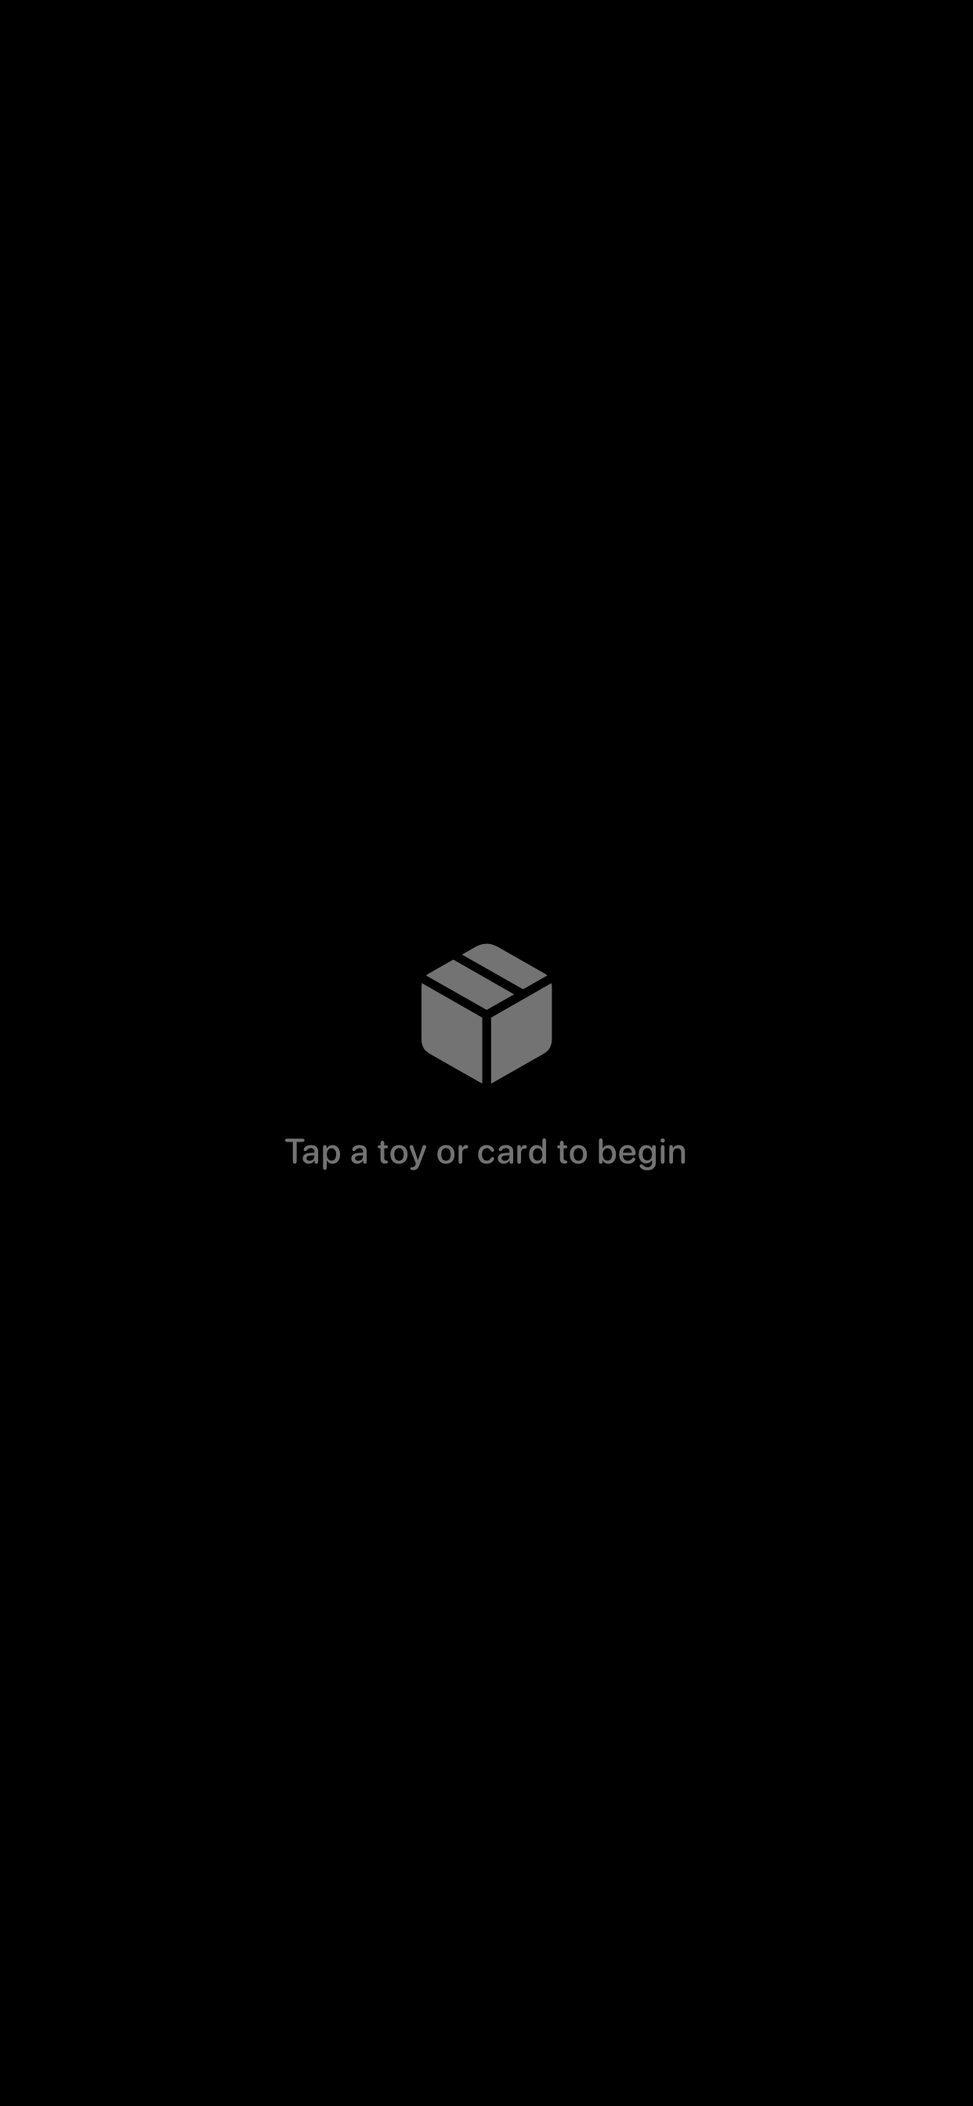
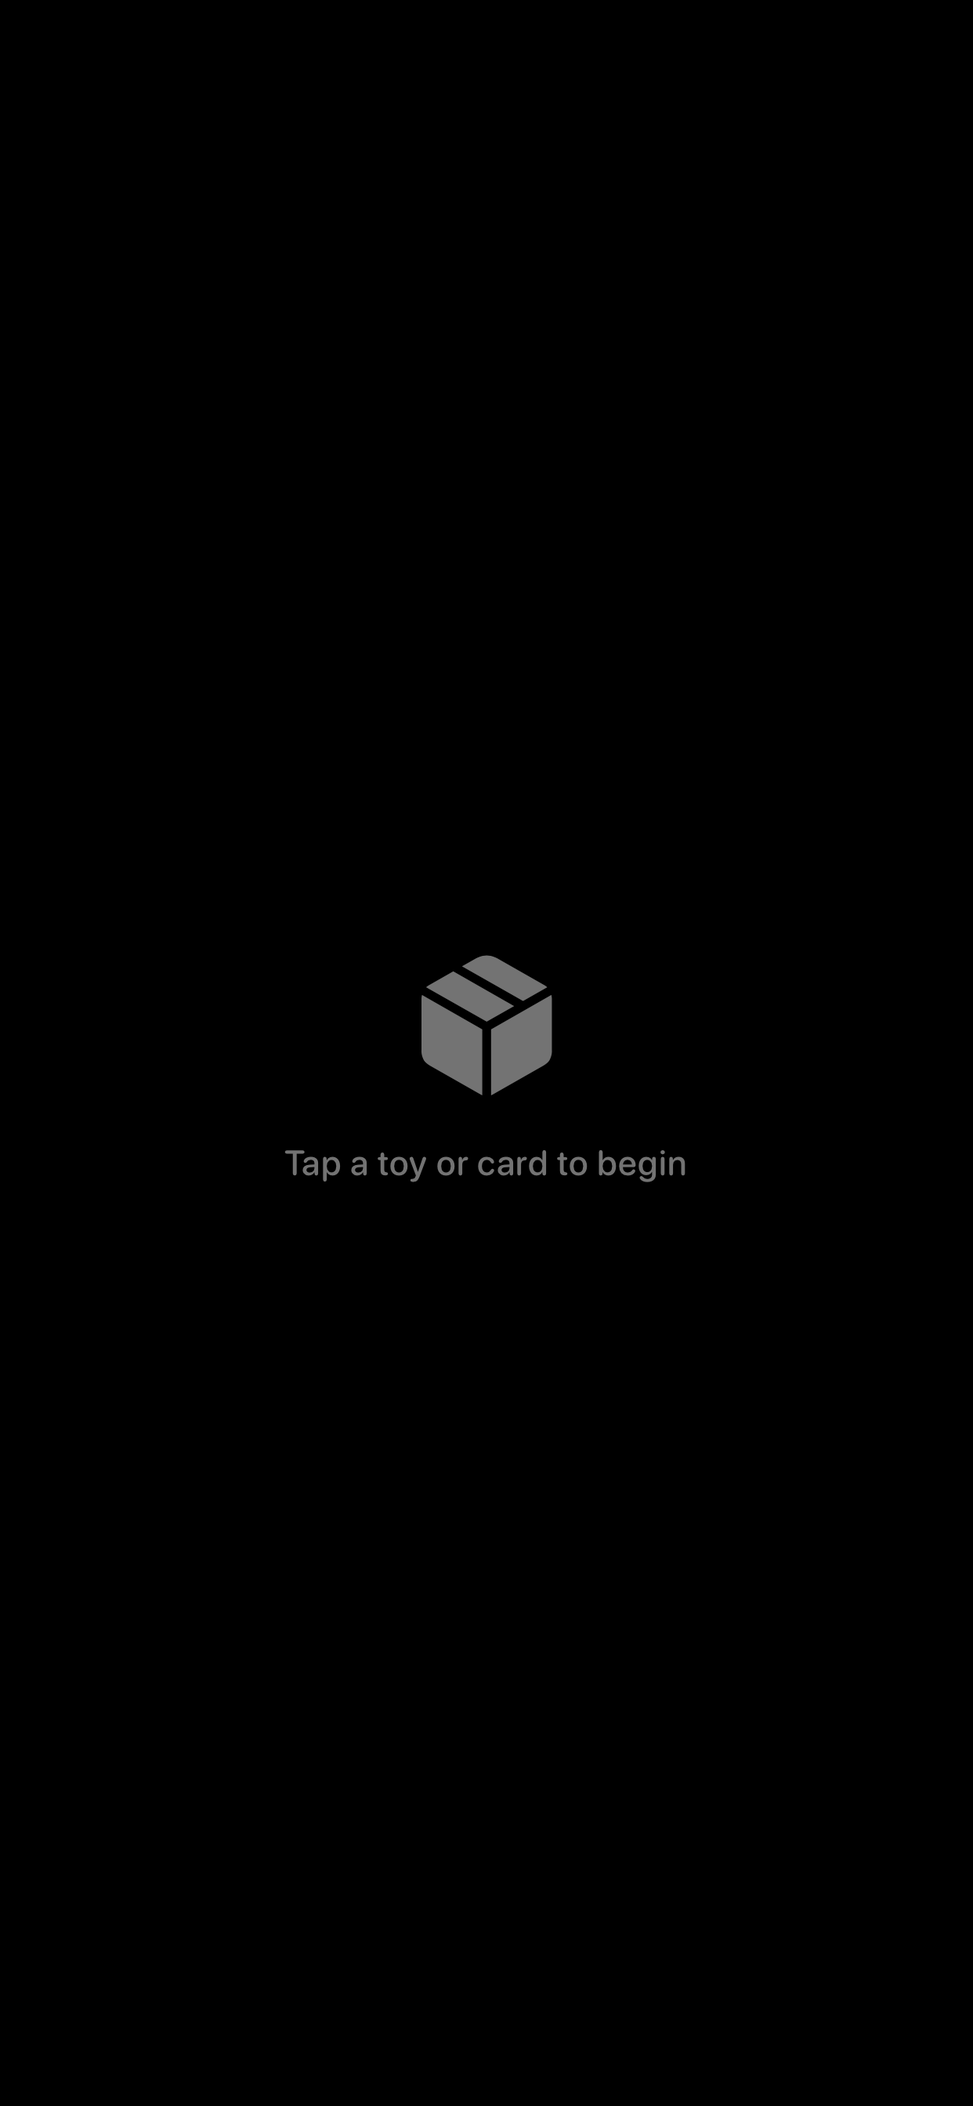
Fix content rendering under the Dynamic Island; add baked-in device frames
Real bug found while reviewing screenshots: ChildLockedShellView applied
.ignoresSafeArea() to its entire outer ZStack, which let StoryPlayerView's
title text render directly under the Dynamic Island/notch on real
devices (visibly confirmed: "The Magic Monkey" appeared as "Th[island]key").
Fixed by moving .ignoresSafeArea() down to each child view's own
.background() only, so the black/white fill still bleeds edge-to-edge
while actual content (text, icons) stays within the safe area. Applies to
IdleTapPromptView, StoryPlayerView, VocabCardView, MusicPlayerView, and
PlaybackErrorView. Recaptured all screenshots to confirm the fix.

Added Scripts/frame_screenshots.py (Pillow-based) to bake a device bezel
+ rounded screen corners + drop shadow directly into a copy of each
screenshot -- a phone frame for the iPhone captures, and a distinct
squircle-shaped frame with Digital Crown/side-button nubs for the Apple
Watch one. This has to happen at the image level rather than via CSS:
GitHub strips <style> blocks and inline styling from README.md, so a
CSS-only frame (which is what docs/index.html used before, and still
uses everywhere else) would simply disappear there. Raw screenshots stay
untouched under docs/screenshots/<device>/ for potential real App Store
Connect reuse; framed copies go to docs/screenshots/framed/<device>/.
Landing page and README now reference the framed versions; the
now-redundant CSS bezel/shadow styling was removed from style.css to
[…]

Changed region(s): [[0.306, 0.4375, 0.7037, 0.5625]]

diff --git a/docs/index.html b/docs/index.html
@@ -48,13 +48,13 @@
     <div class="hero-phones">
       <div>
         <div class="phone-frame">
-          <img src="screenshots/iphone-17-pro-max/idle.png" alt="TapStory's locked screen: a plain black screen with a small grey box icon and the words 'Tap a toy or card to begin'. This is also exactly what's on screen while a story is playing, by default.">
+          <img src="screenshots/framed/iphone-17-pro-max/idle.png" alt="TapStory's locked screen: a plain black screen with a small grey box icon and the words 'Tap a toy or card to begin'. This is also exactly what's on screen while a story is playing, by default.">
         </div>
         <p class="fine-print" style="text-align:center;margin-top:10px;">This is the screen. Also while a story is playing.</p>
       </div>
       <div style="margin-top:34px;">
         <div class="phone-frame">
-          <img src="screenshots/iphone-17-pro-max/story-magic-monkey.png" alt="TapStory playing 'The Magic Monkey' story with Screen Display turned on, showing a tree illustration and on-screen narration text.">
+          <img src="screenshots/framed/iphone-17-pro-max/story-magic-monkey.png" alt="TapStory playing 'The Magic Monkey' story with Screen Display turned on, showing a tree illustration and on-screen narration text.">
         </div>
         <p class="fine-print" style="text-align:center;margin-top:10px;">Optional: turn on Screen Display to see it too.</p>
       </div>
@@ -101,19 +101,19 @@
     </div>
     <div class="gallery">
       <figure>
-        <div class="shot"><img src="screenshots/iphone-17-pro-max/idle.png" alt="Idle locked screen, waiting for a tap -- also what's on screen while content plays, by default"></div>
+        <div class="shot"><img src="screenshots/framed/iphone-17-pro-max/idle.png" alt="Idle locked screen, waiting for a tap -- also what's on screen while content plays, by default"></div>
         <figcaption><strong>Default:</strong> no motion, nothing else to tap -- even mid-story</figcaption>
       </figure>
       <figure>
-        <div class="shot"><img src="screenshots/iphone-17-pro-max/story-magic-monkey.png" alt="A story page playing with narration and an illustration, Screen Display on"></div>
+        <div class="shot"><img src="screenshots/framed/iphone-17-pro-max/story-magic-monkey.png" alt="A story page playing with narration and an illustration, Screen Display on"></div>
         <figcaption><strong>Optional:</strong> a story shown page by page</figcaption>
       </figure>
       <figure>
-        <div class="shot"><img src="screenshots/iphone-17-pro-max/vocab-letter-m.png" alt="A vocabulary card showing the letter M and the word Monkey, Screen Display on"></div>
+        <div class="shot"><img src="screenshots/framed/iphone-17-pro-max/vocab-letter-m.png" alt="A vocabulary card showing the letter M and the word Monkey, Screen Display on"></div>
         <figcaption><strong>Optional:</strong> letter &amp; vocabulary cards</figcaption>
       </figure>
       <figure>
-        <div class="shot"><img src="screenshots/iphone-17-pro-max/music-lullaby.png" alt="A lullaby playing with a moon icon, Screen Display on"></div>
+        <div class="shot"><img src="screenshots/framed/iphone-17-pro-max/music-lullaby.png" alt="A lullaby playing with a moon icon, Screen Display on"></div>
         <figcaption><strong>Optional:</strong> songs and lullabies on screen</figcaption>
       </figure>
     </div>
@@ -128,8 +128,8 @@
     </div>
     <div class="hero-phones" style="justify-content:flex-start;">
       <div style="max-width:220px;">
-        <div class="phone-frame" style="border-radius:24px;">
-          <img src="screenshots/apple-watch/overview.png" alt="TapStory's Apple Watch app, showing Now Playing, a Screen Display toggle, and a list of saved tags to play remotely.">
+        <div class="phone-frame">
+          <img src="screenshots/framed/apple-watch/overview.png" alt="TapStory's Apple Watch app, showing Now Playing, a Screen Display toggle, and a list of saved tags to play remotely.">
         </div>
       </div>
       <div style="flex:1;min-width:220px;">

diff --git a/docs/assets/style.css b/docs/assets/style.css
@@ -207,11 +207,10 @@ h1 {
 }
 
 .phone-frame {
-  border-radius: 34px;
-  border: 8px solid var(--surface);
-  box-shadow: var(--shadow), 0 0 0 1px var(--border);
-  overflow: hidden;
-  background: #000;
+  /* The device bezel + shadow are baked directly into these images (see
+     Scripts/frame_screenshots.py) rather than drawn with CSS, so the same
+     framed screenshots also render correctly in README.md on GitHub,
+     which strips <style> blocks and most inline styling from Markdown. */
   width: 100%;
   max-width: 220px;
 }
@@ -322,10 +321,7 @@ section {
 }
 
 .gallery .shot {
-  border-radius: 20px;
-  overflow: hidden;
-  border: 1px solid var(--border);
-  box-shadow: var(--shadow);
+  /* Framed images already carry their own bezel + shadow -- see .phone-frame. */
 }
 
 .gallery figcaption {

diff --git a/App/TapStory/UI/Child/ChildLockedShellView.swift b/App/TapStory/UI/Child/ChildLockedShellView.swift
@@ -63,7 +63,12 @@ struct ChildLockedShellView: View {
                 }
             }
         }
-        .ignoresSafeArea()
+        // Deliberately NOT .ignoresSafeArea() here: each child view bleeds
+        // its own background to the edges individually (see e.g.
+        // StoryPlayerView), but keeps its actual content -- text, icons --
+        // within the safe area. A blanket ignoresSafeArea() at this level
+        // previously let top-anchored content (a story's title) render
+        // straight under the Dynamic Island/notch on real devices.
         .statusBarHidden(true)
         .onAppear {
             coordinator.startListening()

diff --git a/App/TapStory/Actors/Story/StoryPlayerView.swift b/App/TapStory/Actors/Story/StoryPlayerView.swift
@@ -45,7 +45,7 @@ struct StoryPlayerView: View {
                         .padding(.bottom, 32)
                 }
                 .frame(maxWidth: .infinity, maxHeight: .infinity)
-                .background(Color(.systemBackground))
+                .background(Color(.systemBackground).ignoresSafeArea())
                 .animation(.easeInOut(duration: 0.4), value: pageIndex)
             }
         }

diff --git a/App/TapStory/UI/Child/PlaybackErrorView.swift b/App/TapStory/UI/Child/PlaybackErrorView.swift
@@ -19,7 +19,7 @@ struct PlaybackErrorView: View {
                 .foregroundStyle(.secondary)
         }
         .frame(maxWidth: .infinity, maxHeight: .infinity)
-        .background(Color(.systemBackground))
+        .background(Color(.systemBackground).ignoresSafeArea())
         .onAppear {
             DispatchQueue.main.asyncAfter(deadline: .now() + 2.5) {
                 onFinished()

diff --git a/App/TapStory/Actors/Music/MusicPlayerView.swift b/App/TapStory/Actors/Music/MusicPlayerView.swift
@@ -28,7 +28,7 @@ struct MusicPlayerView: View {
                     Spacer()
                 }
                 .frame(maxWidth: .infinity, maxHeight: .infinity)
-                .background(Color(.systemBackground))
+                .background(Color(.systemBackground).ignoresSafeArea())
                 .onAppear { pulse = true }
             }
         }

diff --git a/App/TapStory/Actors/Vocab/VocabCardView.swift b/App/TapStory/Actors/Vocab/VocabCardView.swift
@@ -37,7 +37,7 @@ struct VocabCardView: View {
                     Spacer()
                 }
                 .frame(maxWidth: .infinity, maxHeight: .infinity)
-                .background(Color(.systemBackground))
+                .background(Color(.systemBackground).ignoresSafeArea())
             }
         }
         .onAppear { playOnce() }

diff --git a/App/TapStory/UI/Child/IdleTapPromptView.swift b/App/TapStory/UI/Child/IdleTapPromptView.swift
@@ -23,6 +23,6 @@ struct IdleTapPromptView: View {
             Spacer()
         }
         .frame(maxWidth: .infinity, maxHeight: .infinity)
-        .background(Color.black)
+        .background(Color.black.ignoresSafeArea())
     }
 }

diff --git a/Scripts/frame_screenshots.py b/Scripts/frame_screenshots.py
@@ -1,0 +1,146 @@
+#!/usr/bin/env python3
+"""
+Bakes a device frame (bezel, rounded screen corners, drop shadow) directly
+into a copy of each screenshot, for display on the landing page and in
+README.md. This has to happen at the image level rather than via CSS: raw
+Markdown/HTML rendered by GitHub strips <style> blocks and most inline
+styling, so a CSS-only frame (fine for docs/index.html on its own) can't
+survive on GitHub's README rendering.
+
+Raw screenshots from capture_screenshots.sh are left completely
+untouched under docs/screenshots/<device>/ -- those stay pixel-accurate
+to real device dimensions, which matters if they're ever reused for an
+actual App Store Connect screenshot upload. Framed copies are written to
+docs/screenshots/framed/<device>/ instead.
+
+Usage: ./Scripts/frame_screenshots.py
+"""
+from pathlib import Path
+from PIL import Image, ImageDraw, ImageFilter
+
+ROOT = Path(__file__).resolve().parent.parent
+SRC_ROOT = ROOT / "docs" / "screenshots"
+DST_ROOT = ROOT / "docs" / "screenshots" / "framed"
+
+BEZEL_COLOR = (18, 18, 20, 255)
+
+PHONE_DEVICES = ["iphone-17-pro-max", "iphone-11-pro-max"]
+PHONE_SCENES = ["idle", "story-magic-monkey", "vocab-letter-m", "music-lullaby", "dashboard"]
+
+
+def rounded_mask(size, radius):
+    mask = Image.new("L", size, 0)
+    ImageDraw.Draw(mask).rounded_rectangle([(0, 0), (size[0] - 1, size[1] - 1)], radius=radius, fill=255)
+    return mask
+
+
+def drop_shadow(canvas_size, rect, radius, blur, opacity=115, y_offset_ratio=0.012):
+    shadow = Image.new("RGBA", canvas_size, (0, 0, 0, 0))
+    (x0, y0), (x1, y1) = rect
+    offset = int((y1 - y0) * y_offset_ratio)
+    ImageDraw.Draw(shadow).rounded_rectangle(
+        [(x0, y0 + offset), (x1, y1 + offset)], radius=radius, fill=(0, 0, 0, opacity)
+    )
+    return shadow.filter(ImageFilter.GaussianBlur(blur))
+
+
+def frame_phone(src_path: Path, dst_path: Path):
+    shot = Image.open(src_path).convert("RGBA")
+    w, h = shot.size
+
+    bezel = round(w * 0.022)
+    corner = round(w * 0.125)  # matches a modern iPhone's screen corner radius closely enough
+    pad = round(w * 0.05)
+
+    screen = Image.new("RGBA", (w, h), (0, 0, 0, 0))
+    screen.paste(shot, (0, 0), rounded_mask((w, h), corner))
+
+    body_w, body_h = w + bezel * 2, h + bezel * 2
+    canvas_w, canvas_h = body_w + pad * 2, body_h + pad * 2
+    canvas = Image.new("RGBA", (canvas_w, canvas_h), (0, 0, 0, 0))
+
+    body_rect = ((pad, pad), (pad + body_w, pad + body_h))
+    canvas = Image.alpha_composite(canvas, drop_shadow((canvas_w, canvas_h), body_rect, corner + bezel, round(w * 0.028)))
+
+    body = Image.new("RGBA", (canvas_w, canvas_h), (0, 0, 0, 0))
+    ImageDraw.Draw(body).rounded_rectangle(
+        [body_rect[0], body_rect[1]], radius=corner + bezel, fill=BEZEL_COLOR
+    )
+    canvas = Image.alpha_composite(canvas, body)
+    canvas.paste(screen, (pad + bezel, pad + bezel), screen)
+
+    dst_path.parent.mkdir(parents=True, exist_ok=True)
+    canvas.save(dst_path)
+
+
+def frame_watch(src_path: Path, dst_path: Path):
+    shot = Image.open(src_path).convert("RGBA")
+    w, h = shot.size
+
+    bezel = round(w * 0.075)
+    corner = round(min(w, h) * 0.34)  # Watch cases read as a rounded squircle, not a plain rounded rect
+    pad = round(w * 0.11)
+
+    screen = Image.new("RGBA", (w, h), (0, 0, 0, 0))
+    screen.paste(shot, (0, 0), rounded_mask((w, h), round(corner * 0.72)))
+
+    body_w, body_h = w + bezel * 2, h + bezel * 2
+    canvas_w, canvas_h = body_w + pad * 2, body_h + pad * 2
+    canvas = Image.new("RGBA", (canvas_w, canvas_h), (0, 0, 0, 0))
+
+    body_rect = ((pad, pad), (pad + body_w, pad + body_h))
+    canvas = Image.alpha_composite(canvas, drop_shadow((canvas_w, canvas_h), body_rect, corner + bezel, round(w * 0.05), opacity=130))
+
+    body = Image.new("RGBA", (canvas_w, canvas_h), (0, 0, 0, 0))
+    draw = ImageDraw.Draw(body)
+    draw.rounded_rectangle([body_rect[0], body_rect[1]], radius=corner + bezel, fill=BEZEL_COLOR)
+
+    # Digital Crown + side button nubs on the right edge -- what actually
+    # reads as "Apple Watch" rather than just another rounded rectangle.
+    right_x = pad + body_w
+    nub_w = round(bezel * 1.3)
+    crown_h = round(body_h * 0.15)
+    crown_y = pad + round(body_h * 0.28)
+    draw.rounded_rectangle(
+        [(right_x - bezel * 0.4, crown_y), (right_x + nub_w, crown_y + crown_h)],
+        radius=nub_w // 2, fill=BEZEL_COLOR
+    )
+    button_h = round(body_h * 0.10)
+    button_y = pad + round(body_h * 0.52)
+    button_w = round(nub_w * 0.75)
+    draw.rounded_rectangle(
+        [(right_x - bezel * 0.4, button_y), (right_x + button_w, button_y + button_h)],
+        radius=button_w // 2, fill=BEZEL_COLOR
+    )
+
+    canvas = Image.alpha_composite(canvas, body)
+    canvas.paste(screen, (pad + bezel, pad + bezel), screen)
+
+    dst_path.parent.mkdir(parents=True, exist_ok=True)
+    canvas.save(dst_path)
+
+
+def main():
+    count = 0
+    for device in PHONE_DEVICES:
+        for scene in PHONE_SCENES:
+            src = SRC_ROOT / device / f"{scene}.png"
+            if not src.exists():
+                continue
+            dst = DST_ROOT / device / f"{scene}.png"
+            frame_phone(src, dst)
+            count += 1
+            print(f"  {src.relative_to(ROOT)} -> {dst.relative_to(ROOT)}")
+
+    watch_src = SRC_ROOT / "apple-watch" / "overview.png"
+    if watch_src.exists():
+        watch_dst = DST_ROOT / "apple-watch" / "overview.png"
+        frame_watch(watch_src, watch_dst)
+        count += 1
+        print(f"  {watch_src.relative_to(ROOT)} -> {watch_dst.relative_to(ROOT)}")
+
+    print(f"Done. Framed {count} image(s) under {DST_ROOT.relative_to(ROOT)}/")
+
+
+if __name__ == "__main__":
+    main()

diff --git a/README.md b/README.md
@@ -28,10 +28,10 @@ exactly what has and hasn't been verified on real hardware.
 ## Screenshots
 
 <p>
-  <img src="docs/screenshots/iphone-17-pro-max/idle.png" width="200" alt="Locked idle screen -- also what's on screen by default while any content is playing">
-  <img src="docs/screenshots/iphone-17-pro-max/story-magic-monkey.png" width="200" alt="A story playing, with Screen Display turned on">
-  <img src="docs/screenshots/iphone-17-pro-max/vocab-letter-m.png" width="200" alt="A vocabulary card, with Screen Display turned on">
-  <img src="docs/screenshots/iphone-17-pro-max/music-lullaby.png" width="200" alt="A lullaby playing, with Screen Display turned on">
+  <img src="docs/screenshots/framed/iphone-17-pro-max/idle.png" width="200" alt="Locked idle screen -- also what's on screen by default while any content is playing">
+  <img src="docs/screenshots/framed/iphone-17-pro-max/story-magic-monkey.png" width="200" alt="A story playing, with Screen Display turned on">
+  <img src="docs/screenshots/framed/iphone-17-pro-max/vocab-letter-m.png" width="200" alt="A vocabulary card, with Screen Display turned on">
+  <img src="docs/screenshots/framed/iphone-17-pro-max/music-lullaby.png" width="200" alt="A lullaby playing, with Screen Display turned on">
 </p>
 
 These are captured automatically -- see **Screenshot automation** below --
@@ -138,7 +138,8 @@ docs/
   privacy.html    # Privacy Policy (App Store Connect requires this URL)
   terms.html      # Terms of Use / EULA
   support.html    # Support page + FAQ (App Store Connect requires this URL too)
-  screenshots/    # Output of Scripts/capture_screenshots.sh
+  screenshots/    # Raw output of Scripts/capture_screenshots.sh
+    framed/       # Device-framed copies (Scripts/frame_screenshots.py) -- what's actually displayed
   assets/style.css
 ```
 
@@ -181,6 +182,33 @@ Since Screen Display defaults to off, a content scene also force-enables
 it (only on the simulator taking the screenshot, never on a real device)
 so the capture actually shows the optional visual mode instead of an
 idle screen that looks identical to the "idle" scene's own screenshot.
+
+**Device frames** (the bezel/shadow around each screenshot on the landing
+page and in this README) are baked directly into a separate copy of each
+image, not drawn with CSS:
+
+```sh
+python3 Scripts/frame_screenshots.py
+```
+
+Raw screenshots from `capture_screenshots.sh` are left untouched under
+`docs/screenshots/<device>/` (they need to stay pixel-accurate to real
+device dimensions in case they're ever reused for an actual App Store
+Connect screenshot upload); framed copies go to
+`docs/screenshots/framed/<device>/`. Baking the frame into the image
+itself, rather than styling it with CSS like `docs/index.html` otherwise
+does everywhere else, is a deliberate exception: GitHub strips
+`<style>` blocks and most inline styling when rendering `README.md`, so a
+CSS-only frame (fine for the landing page on its own) would just
+disappear there. Re-run this after any change to
+`capture_screenshots.sh`'s scenes or devices.
+
+Run both scripts in sequence any time bundled content, a screen's layout,
+or the device/scene list changes:
+
+```sh
+./Scripts/capture_screenshots.sh && python3 Scripts/frame_screenshots.py
+```
 
 ## Why this shape
 

diff --git a/CLAUDE.md b/CLAUDE.md
@@ -46,10 +46,10 @@ Regenerate the bundled lullaby placeholder audio (the only bundled content that 
 ./Scripts/generate_sample_audio.sh
 ```
 
-Capture App Store / landing-page screenshots (boots simulators, no manual interaction or XCUITest):
+Capture App Store / landing-page screenshots (boots simulators, no manual interaction or XCUITest), then bake device-frame bezels into copies of them for display in README.md/the landing page (raw screenshots must stay unframed for possible App Store Connect reuse):
 
 ```sh
-./Scripts/capture_screenshots.sh
+./Scripts/capture_screenshots.sh && python3 Scripts/frame_screenshots.py
 ```
 
 **Never pass `-sdk iphonesimulator` (or any explicit `-sdk`) on these commands.** The app embeds a watchOS companion target (`TapStoryWatch`); an explicit `-sdk` forces that SDK onto the *entire* target graph, silently building the watch target for the wrong platform too, which compiles fine but fails at install time with an opaque "companion watch app validation" error. Plain `-destination` resolves each target to its own declared platform correctly.
@@ -96,6 +96,10 @@ Every actor's `audio` field is a `MediaRef { source, ref }` resolved by `MediaRe
 `Shared/WatchConnectivity/WatchMessage.swift` (`WatchCommand`, `PhoneStatus`) is compiled into *both* targets (listed in both targets' `sources:` in `project.yml`) rather than duplicated, so the wire format can't drift. Transport is `WCSession` (WatchConnectivity) — a local link between paired devices, no internet/accounts involved. `PhoneWatchConnectivityService` (iOS, in `App/TapStory/Watch/`) pushes a `PhoneStatus` snapshot via `updateApplicationContext` on every relevant change and applies incoming `WatchCommand`s to `AppSettings`/`PlaybackCoordinator`; `WatchConnectivityService` (watchOS) is the mirror image, sending commands and applying them optimistically to its local `status` before the phone confirms.
 
 `WCSessionDelegate` has iOS-only required methods (`sessionDidBecomeInactive`/`sessionDidDeactivate`) that are marked *unavailable* on watchOS — and `TapStoryWatch`'s sources get compiled under both SDKs (once for real watchOS, once under iOS as part of `TapStory`'s embed step), so those two methods are wrapped in `#if os(iOS)` in the watchOS-side file.
+
+### Child-facing views: background bleeds, content doesn't
+
+`ChildLockedShellView` deliberately does *not* apply `.ignoresSafeArea()` to its outer `ZStack`. Each child view (`IdleTapPromptView`, `StoryPlayerView`, `VocabCardView`, `MusicPlayerView`, `PlaybackErrorView`) instead calls `.ignoresSafeArea()` on its own `.background(...)` only, so the black/white fill bleeds edge-to-edge while text/icon content stays within the safe area. Applying it at the shell level once caused `StoryPlayerView`'s title to render directly under the Dynamic Island on real devices — caught via the screenshot automation, not by eye. Any new top-anchored content in a child-facing view should follow the same pattern.
 
 ### Landing page / App Store pages
 
